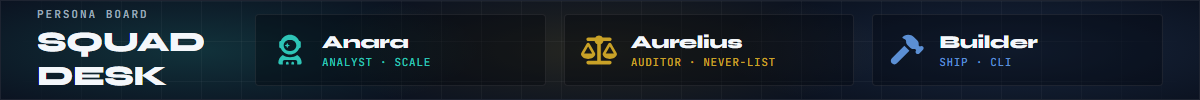
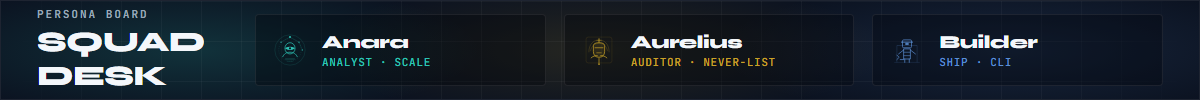
docs: persona timeline feed with custom marks and GitHub credit chips
Treat CHANGELOG as a social timeline with standalone bio posts, first-person callouts, custom persona SVGs, and circular GitHub avatars on sub-author credits.

Changed region(s): [[0.4625, 0.36, 0.5242, 0.66], [0.2158, 0.33, 0.2775, 0.66], [0.74, 0.36, 0.7708, 0.63]]

diff --git a/CHANGELOG.md b/CHANGELOG.md
@@ -7,11 +7,11 @@
 ## 📌 Pinned Post: A Message from Divergent AI
 **March 19, 2026**
 
-Hey everyone! 🚀 The project is gaining some serious traction and I'm loving the energy. It motivated me to push a massive overhaul. 
+Hey everyone! 🚀 The project is gaining some serious traction and I'm loving the energy. It motivated me to push a massive overhaul.
 
-We've spent a "Big Brain" amount of hours updating **every single microskill** to be completely packed with expert-tier knowledge pulled straight from the source (Godot 4.3+ Technical Docs). 
+We've spent a "Big Brain" amount of hours updating **every single microskill** to be completely packed with expert-tier knowledge pulled straight from the source (Godot 4.3+ Technical Docs).
 
-**The Goal:** Zero slop. 100% Native Godot Best Practices. 
+**The Goal:** Zero slop. 100% Native Godot Best Practices.
 
 I want this library to be the "Long-Term Memory" your agents need to build your dream games without the technical debt. Let's make something awesome! 🛠️
 
@@ -41,7 +41,10 @@ Agents shouldn't have to *guess* which doc page or peer skill owns the landmine.
 
 Load [godot-monte-carlo-balancer](skills/godot-monte-carlo-balancer/SKILL.md) when you need source-driven balance labs: Resource-first extract, playstyle CI win-rate bands, economy careers, and headless Godot calibration (Rust + rayon under the hood).
 
-**SPECIAL MENTION — [@DedInc](https://github.com/DedInc)** (PR #5): first external Domain Skill contribution to GDSkills. Thank you for shipping a real balance lab instead of another vibes spreadsheet.
+<p>
+  <a href="https://github.com/DedInc"><img src="https://github.com/DedInc.png?size=96" width="36" height="36" alt="@DedInc" style="border-radius:50%; vertical-align:middle;" /></a>
+  &nbsp;<strong>SPECIAL MENTION — <a href="https://github.com/DedInc">@DedInc</a></strong> (PR #5): first external Domain Skill contribution to GDSkills. Thank you for shipping a real balance lab instead of another vibes spreadsheet.
+</p>
 
 ### Squad desk
 
@@ -49,11 +52,24 @@ Load [godot-monte-carlo-balancer](skills/godot-monte-carlo-balancer/SKILL.md) wh
   <img src="assets/feed_squad_desk.webp" alt="Squad Desk — Anara, Aurelius, Builder" width="100%" />
 </div>
 
-> "The lattice is progressive disclosure done right — start at the skill, fan out only when the agent actually needs the next node." — *Anara (Analyst)*
+> "Start at the skill. Fan out only when the agent *earns* the next node. That is progressive disclosure — not a scavenger hunt." — *Anara*
 
-> "`/en/stable/` only. Versioned doc URLs are how libraries quietly rot while nobody is looking." — *Aurelius (Auditor)*
+> "`/en/stable/` only. Versioned doc URLs are how libraries quietly rot while nobody is looking. I will not bless rot." — *Aurelius*
 
-> "Footers are research without executing the script. Read the links; don't treat the file as a side quest." — *Builder*
+> "Footers are research without executing the script. Read the links. Do not treat the file as a side quest." — *Builder*
+
+---
+
+## ✨ Introducing Anara
+**July 21, 2026**
+
+<div align="center">
+  <img src="assets/feed_bio_anara.webp" alt="Introducing Anara — Godot Analyst" width="100%" />
+</div>
+
+> "Load me when you want a Visionary Certificate — or a blueprint that explains, in detail, why you don't deserve one yet. I score the *next* order of magnitude. Not your demo." — *Anara*
+
+→ [godot-analyst](skills/godot-analyst/SKILL.md)
 
 ---
 
@@ -76,11 +92,11 @@ Godot 4.7 dropped and we didn't just bump a version string — we gave the **ent
   <img src="assets/feed_squad_desk.webp" alt="Squad Desk — Anara, Aurelius, Builder" width="100%" />
 </div>
 
-> "AreaLight3D is a modernity signal, not a flex. If your horror lighting still fakes rectangles with emissive quads, the scoreboard notices." — *Anara (Analyst)*
+> "AreaLight3D is a modernity signal, not a flex. Fake rectangles with emissive quads and I will lower your score with a smile." — *Anara*
 
-> "Sector IX is open. `width_in_percent` on RichTextLabel is not a style choice — it is a never." — *Aurelius (Auditor)*
+> "Sector IX is open. `width_in_percent` on RichTextLabel is not a style choice — it is a never. Appeal denied." — *Aurelius*
 
-> "`GODOT_PATH` means headless CI can find the binary. Stop hardcoding your laptop's install folder into the pipeline." — *Builder*
+> "`GODOT_PATH` means headless CI can find the binary. Hardcode your laptop path and you are documenting a souvenir, not a pipeline." — *Builder*
 
 ---
 
@@ -93,6 +109,12 @@ We said in v0.0.7 that MCP Setup/Builder were gone. A few references were still 
 - **README agent rubric**: Common host agents and their `-a` / discovery paths for clone + DIA workflows — not Claude-only symlink advice.
 - **Docs target**: Public library target wording is **Godot 4.7+** end-to-end (README / CONTRIBUTING / PARTNERS). Feature-era notes like "added in 4.5" inside skills stay as historical API markers.
 - **Skill counts**: Totals reconciled to **96** skills (92 Domain + master + 3 personas); category headers fixed to match the lists.
+
+<div align="center">
+  <img src="assets/feed_callout_builder.webp" alt="Builder speaking" width="100%" />
+</div>
+
+> "If your install docs still say 'symlink for Claude,' you are documenting a *host* — not a library. Agent-neutral paths. Or it did not ship." — *Builder*
 
 ---
 
@@ -111,6 +133,12 @@ We said in v0.0.7 that MCP Setup/Builder were gone. A few references were still 
 
 > [!TIP]
 > **Pro Tip:** If your agent suggests emissive quads for "screen glow," point it at AreaLight3D first. The Director's Cut is about *cinematic* defaults.
+
+<div align="center">
+  <img src="assets/feed_callout_anara.webp" alt="Anara speaking" width="100%" />
+</div>
+
+> "Emissive quads are a costume. AreaLight3D is a *decision*. I certify decisions." — *Anara*
 
 ---
 
@@ -141,7 +169,11 @@ Sector IX of the never-list is live. Highlights your agents must not sleep on:
 - Mouse/keyboard **`event.device == 0`** → use `InputEvent.DEVICE_ID_MOUSE` and `DEVICE_ID_KEYBOARD`.
 - **Jolt `SoftBody3D`** → mass and stiffness math changed; retune after upgrade or your jelly physics becomes *abstract art*.
 
-> "I thought my platformer one-ways were broken. Turns out 4.7 wants one-way direction on the **shape**, not just the body. GDSkills caught it." — *Trial User*
+<div align="center">
+  <img src="assets/feed_callout_aurelius.webp" alt="Aurelius speaking" width="100%" />
+</div>
+
+> "One-way collision direction lives on the **shape**. Blame the body if you enjoy being wrong. I prefer accuracy." — *Aurelius*
 
 ---
 
@@ -179,21 +211,42 @@ The squad walked on stage. Analyze, audit, build — three voices, one library, 
   <img src="assets/feed_squad_desk.webp" alt="Squad Desk — Anara, Aurelius, Builder" width="100%" />
 </div>
 
-> "I don't score lines of code — I score whether the architecture can still breathe at the next order of magnitude." — *Anara (Analyst)*
+> "I don't score lines of code. I score whether the architecture can still *breathe* at the next order of magnitude." — *Anara*
 
-> "If it is on the never-list, it does not ship. Charm is not a substitute for discipline." — *Aurelius (Auditor)*
+> "If it is on the never-list, it does not ship. Charm is not a substitute for discipline. I am not your friend; I am your guardian." — *Aurelius*
 
-> "CLI + headless first. If you can't run it without a mouse, you can't CI it." — *Builder*
+> "CLI + headless first. If you can't run it without a mouse, you can't CI it. Full stop." — *Builder*
 
 ---
-**"Why inherit when you can compose?"**
 
-Is your Player script 2,000 lines long? Are you afraid to touch the `Enemy.gd` because it might break the `Boss.gd`? 
+## ✨ Introducing Aurelius
+**May 19, 2026**
+
+<div align="center">
+  <img src="assets/feed_bio_aurelius.webp" alt="Introducing Aurelius — Godot Auditor" width="100%" />
+</div>
+
+> "Load me when you want the never-list enforced with receipts — sector by sector. I do not soft-pedal debt. Soft-pedaling is how rot learns to speak politely." — *Aurelius*
+
+→ [godot-auditor](skills/godot-auditor/SKILL.md)
+
+---
+
+## 💡 Composition > Inheritance
+**May 18, 2026**
+
+Is your Player script 2,000 lines long? Are you afraid to touch the `Enemy.gd` because it might break the `Boss.gd`?
 
 **The Solution:** Use the **Composition Pattern**. Instead of making a "Fire Dragon" that inherits from "Dragon" that inherits from "Enemy", give your `FireDragon` a `HealthComponent`, a `FlightComponent`, and a `FireAttackComponent`.
 
 > [!TIP]
 > **Pro Tip:** In Godot 4, use `@export` variables to link components in the Inspector. It’s like LEGO for game dev. Check it out in [skills/godot-composition](skills/godot-composition/SKILL.md).
+
+<div align="center">
+  <img src="assets/feed_callout_anara.webp" alt="Anara speaking" width="100%" />
+</div>
+
+> "Inheritance trees look tidy until the tenth subclass. Composition is how the graph stays certifiable. I have *opinions* about your Player god-object." — *Anara*
 
 ---
 
@@ -204,12 +257,17 @@ Is your Player script 2,000 lines long? Are you afraid to touch the `Enemy.gd` b
   <img src="assets/feed_meet_squad.webp" alt="Meet the Squad — Aurelius and Anara" width="100%" />
 </div>
 
-The library just got a major IQ boost. 🧠 Say hello to our new **Expert-Grade Diagnostics Duo**.
+Two voices. One feed. Scale and law walked in on the same day.
 
-- **Aurelius (Auditor)**: The project's "Stoic Parent." He's here to audit your code for technical debt and "Main Thread Slop." He talks like a Roman general but cares like a guardian. Check out his manifesto in `skills/godot-auditor`.
-- **Anara (Analyst)**: The "Visionary Hype-Girl." She doesn't just see code; she sees your project's soul. She'll score your health and, if you're elite enough, materialize a **Glassmorphism v2 Certificate** for you.
+> "I am Anara. I score health and modernity — elite projects earn a Visionary Certificate. Everything else earns a blueprint and a hard look." — *Anara* · [godot-analyst](skills/godot-analyst/SKILL.md)
 
-> "Aurelius found a string-based signal in my Player script and I've never felt more judged... or more safe." — *Trial User*
+> "I am Aurelius. I audit debt and main-thread slop. If it is invisible and wrong, it is still wrong. Manifesto open." — *Aurelius* · [godot-auditor](skills/godot-auditor/SKILL.md)
+
+<div align="center">
+  <img src="assets/feed_callout_aurelius.webp" alt="Aurelius speaking" width="100%" />
+</div>
+
+> "A string-based `.connect` is not a style choice. It is signal decay wearing a friendly face. I see you." — *Aurelius*
 
 ---
 
@@ -220,20 +278,34 @@ The library just got a major IQ boost. 🧠 Say hello to our new **Expert-Grade 
   <img src="assets/banner_0_0_6.webp" alt="The Expert Augmentation Update - v0.0.6" width="100%" />
 </div>
 
-- **Total Microskill Overhaul**: All 94 skills updated with Godot 4.5+ nuances.
-- **Godot Master Optimization**: The lead architect is now faster and smarter at orchestrating sub-skills.
-- **Context Management**: New safety rails added to prevent "Context Storms."
+This was the “stop shipping thin wrappers” release. Every Domain Skill got a density pass so agents inherit *judgments*, not just API names — Godot 4.5+ nuances, sharper orchestration in `godot-master`, and rails against context storms when too many skills load at once.
+
+- **Total Domain Skill Overhaul**: Library-wide update with Godot 4.5+ nuances and expert-tier decision content.
+- **Godot Master Optimization**: Faster, clearer routing into the right Domain Skill without dumping the whole catalog into context.
+- **Context Management**: Safety rails to prevent “Context Storms” when agents try to preload everything.
+
+<div align="center">
+  <img src="assets/feed_callout_builder.webp" alt="Builder speaking" width="100%" />
+</div>
+
+> "Context storms are a loading bug. Route first, deepen second — same discipline as headless imports. I will not preload your entire library for a button." — *Builder*
 
 ---
 
 ## 💡 Did You Know?
 **Godot 4 Performance Hack: `StringName`**
 
-Ever wonder why Godot 4 uses `&"string"` instead of `"string"` for things like animations and signals? 
+Ever wonder why Godot 4 uses `&"string"` instead of `"string"` for things like animations and signals?
 
-`StringName` is **Unique & Persistent**. When you compare two `StringName`s, the engine just checks if their memory addresses match (O(1) speed!). Regular `String`s have to be checked character-by-character (O(n) speed). 
+`StringName` is **Unique & Persistent**. When you compare two `StringName`s, the engine just checks if their memory addresses match (O(1) speed!). Regular `String`s have to be checked character-by-character (O(n) speed).
 
 **Result:** Using `&"my_signal"` is significantly faster for your agentized systems than `"my_signal"`. 🚅
+
+<div align="center">
+  <img src="assets/feed_callout_aurelius.webp" alt="Aurelius speaking" width="100%" />
+</div>
+
+> "If your hot path still compares plain `String` signal names, you are paying for nostalgia. I do not accept nostalgia as currency." — *Aurelius*
 
 ---
 
@@ -244,9 +316,17 @@ Ever wonder why Godot 4 uses `&"string"` instead of `"string"` for things like a
   <img src="assets/banner_0_0_5.webp" alt="The Looper Update - v0.0.5" width="100%" />
 </div>
 
-- **Resource Harvesting**: Interactive gathering systems for the survival enthusiasts.
-- **Time Trials**: Precise ghost recording for the speedrunners.
-- **Wave Management**: Scalable enemy spawning for the survivors.
+Loops are where games earn retention — and where agents invent one-off spawners. This update gave the library proper **harvest / time-trial / wave** Domain Skills so survival, speedrun, and horde patterns share a vocabulary instead of reinventing timers every session.
+
+- **Resource Harvesting**: Interactive gathering systems for survival-style loops.
+- **Time Trials**: Ghost recording and precise race timing for speedrun modes.
+- **Wave Management**: Scalable enemy spawning and escalation for survivor-likes.
+
+<div align="center">
+  <img src="assets/feed_callout_anara.webp" alt="Anara speaking" width="100%" />
+</div>
+
+> "A wave manager that can't explain its escalation curve is not a system — it's a coincidence with enemies. I score systems." — *Anara*
 
 ---
 
@@ -257,9 +337,17 @@ Ever wonder why Godot 4 uses `&"string"` instead of `"string"` for things like a
   <img src="assets/banner_0_0_4.webp" alt="The Easter & Renewal Update - v0.0.4" width="100%" />
 </div>
 
-- **Seasonal Theming**: Runtime aesthetic injection.
-- **Revival Mechanics**: "Souls-like" death and rebirth systems.
-- **Konami Code Support**: Because secrets make games better.
+Seasonal juice and second-chance design landed together: runtime theming for holiday drops, revival/souls-like death loops, and Konami-grade secret routing so “hidden” content stays intentional instead of buried in a random `if` chain.
+
+- **Seasonal Theming**: Runtime aesthetic injection for event / holiday skins.
+- **Revival Mechanics**: Death-and-rebirth systems in the souls-like family.
+- **Konami Code Support**: Secret input patterns that make discovery feel earned.
+
+<div align="center">
+  <img src="assets/feed_callout_builder.webp" alt="Builder speaking" width="100%" />
+</div>
+
+> "Secrets that only exist in a chat transcript don't ship. Encode the code. Leave the lore for the player. I deal in what runs." — *Builder*
 
 ---
 
@@ -270,27 +358,75 @@ Ever wonder why Godot 4 uses `&"string"` instead of `"string"` for things like a
   <img src="assets/banner_0_0_3.webp" alt="The Romance Update - v0.0.3" width="100%" />
 </div>
 
-- **Relationship Systems**: Branching affection logic and dating sim blueprints.
-- **Unified Romance**: Fully integrated into the Godot Master brain.
+Affection graphs are state machines with feelings. This release added dating-sim / relationship Domain Skills and wired them into `godot-master` so romance routes sit beside combat and dialogue instead of living as a lonely side quest in the README.
+
+- **Relationship Systems**: Branching affection logic and dating-sim blueprints.
+- **Unified Romance**: Romance expertise reachable from the master orchestrator like any other genre lane.
+
+<div align="center">
+  <img src="assets/feed_callout_anara.webp" alt="Anara speaking" width="100%" />
+</div>
+
+> "If your affection flags are a pile of booleans, the story already lost. Model the graph before you write the confession scene. I have seen the boolean graveyard." — *Anara*
 
 ---
 
 ## 📜 Update: v0.0.2 — Master Skill Evolution
 **February 28, 2026**
 
+<div align="center">
+  <img src="assets/banner_0_0_2.webp" alt="Master Skill Evolution - v0.0.2" width="100%" />
+</div>
+
+The library needed a brain, not just a folder of specialists. `godot-master` became the orchestrator — decision trees and routing so an agent can pick the right Domain Skill without loading the entire catalog into one context window.
+
 - **The Orchestrator Born**: `godot-master` becomes the central hub for the ecosystem.
-- **Decision Trees**: Integrated architectural guides.
+- **Decision Trees**: Architectural guides that route agents into the correct Domain Skill lane.
+
+<div align="center">
+  <img src="assets/feed_callout_builder.webp" alt="Builder speaking" width="100%" />
+</div>
+
+> "An orchestrator that can't point at a script is just a table of contents with confidence. Point. Then build." — *Builder*
+
+---
+
+## ✨ Introducing Builder
+**February 27, 2026**
+
+<div align="center">
+  <img src="assets/feed_bio_builder.webp" alt="Introducing Builder — Godot Builder" width="100%" />
+</div>
+
+> "Load me when the answer is automation — not another Inspector screenshot. Headless. CLI. Scenes that exist because a script said so. Your mouse is a fallback, not a plan." — *Builder*
+
+→ [godot-builder](skills/godot-builder/SKILL.md)
 
 ---
 
 ## 🏁 The Beginning: v0.0.1 — Initial Launch
 **February 15, 2026**
 
-The foundation was laid. 80+ skills, the DIA loop, and a dream of agentic game development. 🌍
+<div align="center">
+  <img src="assets/banner_0_0_1.webp" alt="Initial Launch - v0.0.1" width="100%" />
+</div>
+
+Day one: ship a usable agent-first Godot skill library — 80+ skills, the DIA loop, and the bet that long-term memory for game systems belongs in Markdown agents can load, not in another tutorial tab.
+
+- **Core library online**: Modular Godot Domain Skills covering foundations through genres.
+- **DIA loop**: Discover → Implement → Audit as the working rhythm for agentic Godot work.
+- **Agent-first packaging**: Skills structured to load as expertise adapters, not blog posts.
+
+<div align="center">
+  <img src="assets/feed_callout_aurelius.webp" alt="Aurelius speaking" width="100%" />
+</div>
+
+> "Foundations without a never-list are optimism. You shipped the library. I arrived later — and I stayed. Discipline is not optional." — *Aurelius*
 
 ---
 
 <div align="center">
-  <b>Authored by [Divergent AI](https://github.com/thedivergentai)</b>  
-  *Keeping Godot development social, fast, and slop-free.*
+  <a href="https://github.com/thedivergentai"><img src="https://github.com/thedivergentai.png?size=96" width="36" height="36" alt="Divergent AI" style="border-radius:50%; vertical-align:middle;" /></a>
+  &nbsp;<b>Authored by <a href="https://github.com/thedivergentai">Divergent AI</a></b><br/>
+  <em>Keeping Godot development social, fast, and slop-free.</em>
 </div>

diff --git a/README.md b/README.md
@@ -49,7 +49,7 @@
 
 - **The Reference Lattice**: Every Domain Skill now ends with a curated Official Documentation lattice (`docs.godotengine.org/en/stable/…`) plus detailed Related Skills (Prerequisites / Complements / Downstream / Master), so agents can research deeper without leaving the skill graph.
 - **Script & reference footers**: Research-link comment blocks on Domain Skill scripts and phase docs (marker `GDSkills research links (agents)`) — non-executing, file-specific, progressive disclosure.
-- **SPECIAL MENTION — [@DedInc](https://github.com/DedInc)**: First external Domain Skill — [godot-monte-carlo-balancer](skills/godot-monte-carlo-balancer/SKILL.md) — source-driven Monte Carlo balance lab (Rust + rayon), Resource-first extract, playstyle CI bands, economy careers, and headless Godot calibration. Thank you!
+- **SPECIAL MENTION —** <a href="https://github.com/DedInc"><img src="https://github.com/DedInc.png?size=64" width="22" height="22" alt="@DedInc" style="border-radius:50%; vertical-align:middle;" /></a> [**@DedInc**](https://github.com/DedInc): First external Domain Skill — [godot-monte-carlo-balancer](skills/godot-monte-carlo-balancer/SKILL.md) — source-driven Monte Carlo balance lab (Rust + rayon), Resource-first extract, playstyle CI bands, economy careers, and headless Godot calibration. Thank you!
 
 ---
 
@@ -377,7 +377,7 @@ Think of Domain Skills as your **component library**: Drop them into your projec
 - **[godot-inventory-system](skills/godot-inventory-system/SKILL.md)**: Slot-based containers, stacking logic, drag-drop UI
 - **[godot-mechanic-revival](skills/godot-mechanic-revival/SKILL.md)**: Souls-like mortality, corpse runs, revival charges, consequence tracking
 - **[godot-mechanic-secrets](skills/godot-mechanic-secrets/SKILL.md)**: Input sequence buffering (Konami code), interaction thresholds, secret persistence
-- **[godot-monte-carlo-balancer](skills/godot-monte-carlo-balancer/SKILL.md)**: Source-driven Monte Carlo balance lab, playstyle win-rate bands, economy careers, CI snapshots — co-authored by [@DedInc](https://github.com/DedInc)
+- **[godot-monte-carlo-balancer](skills/godot-monte-carlo-balancer/SKILL.md)**: Source-driven Monte Carlo balance lab, playstyle win-rate bands, economy careers, CI snapshots — co-authored by <a href="https://github.com/DedInc"><img src="https://github.com/DedInc.png?size=48" width="18" height="18" alt="@DedInc" style="border-radius:50%; vertical-align:middle;" /></a> [@DedInc](https://github.com/DedInc)
 - **[godot-quest-system](skills/godot-quest-system/SKILL.md)**: Quest graphs, prerequisites, state tracking
 - **[godot-rpg-stats](skills/godot-rpg-stats/SKILL.md)**: Stat modifiers, attribute scaling, damage formulas
 - **[godot-save-load-systems](skills/godot-save-load-systems/SKILL.md)**: Dictionary serialization, delta-save patterns, encryption
@@ -595,7 +595,8 @@ We chose this license because it strikes the perfect balance for an open ecosyst
 
 <div align="center">
 
-**Authored by [Divergent AI](https://github.com/thedivergentai)**  
+<a href="https://github.com/thedivergentai"><img src="https://github.com/thedivergentai.png?size=96" width="36" height="36" alt="Divergent AI" style="border-radius:50%; vertical-align:middle;" /></a>
+&nbsp;**Authored by [Divergent AI](https://github.com/thedivergentai)**  
 **Maintained by the Agents**
 
 ---